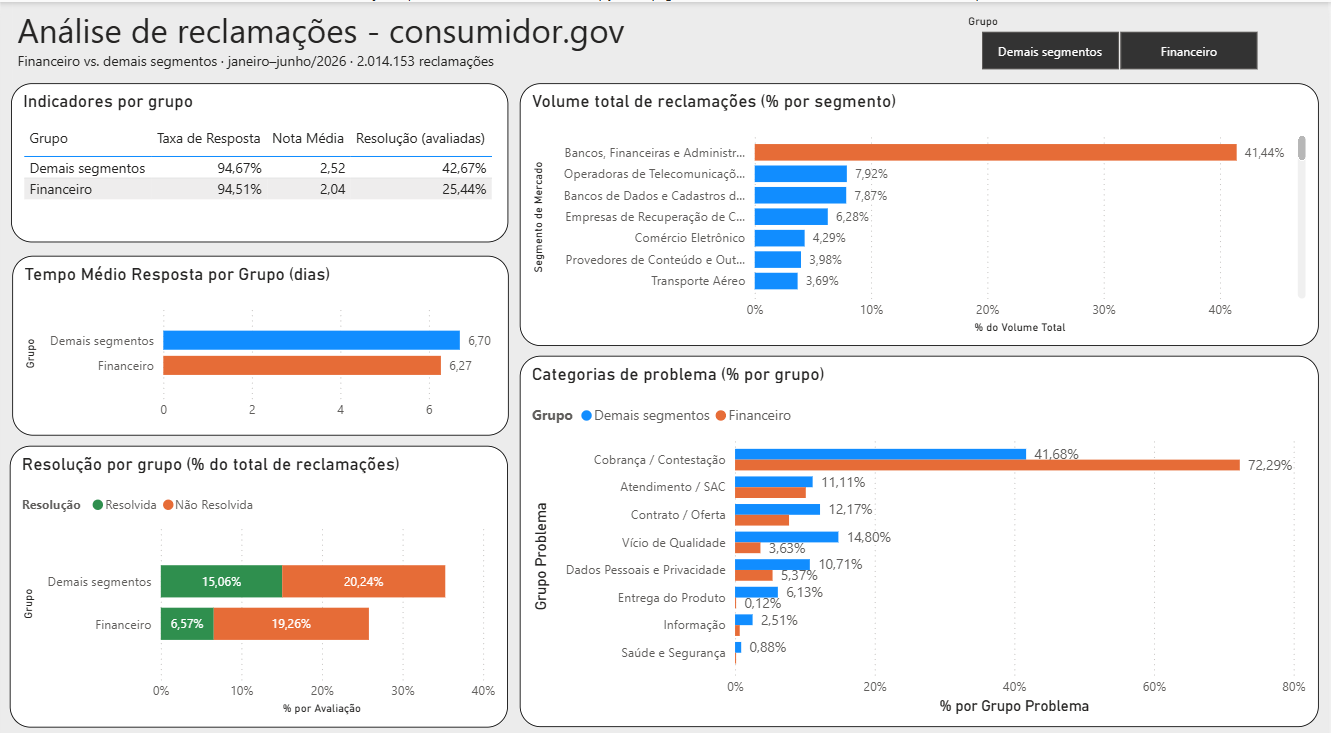
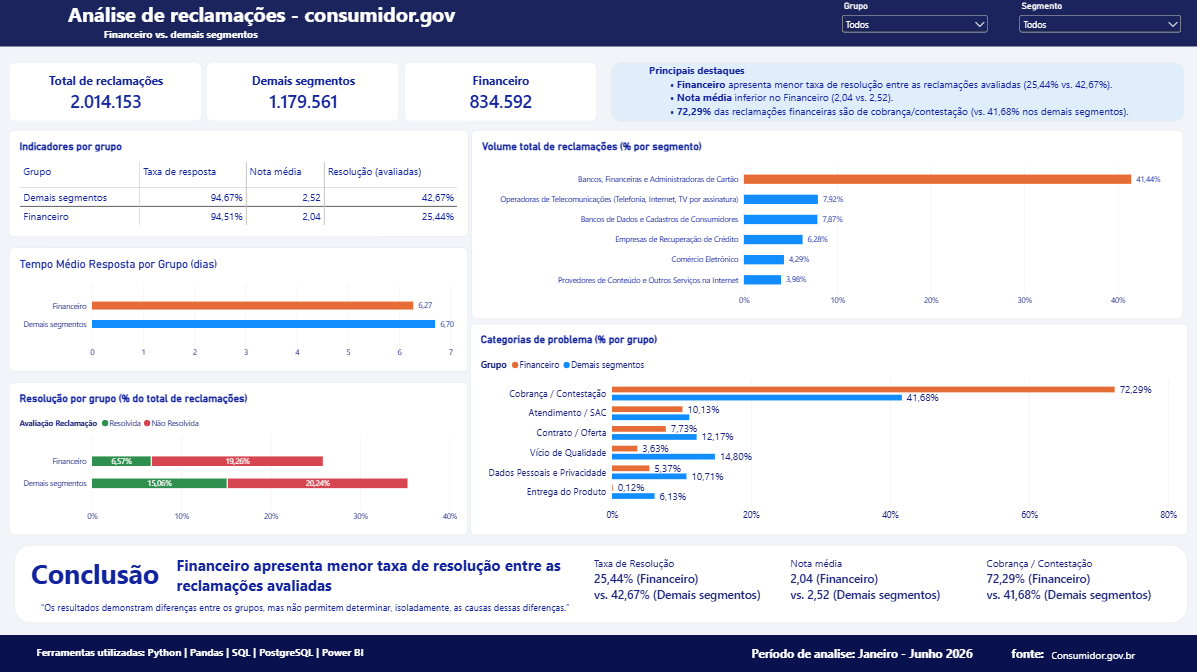
Atualiza README e adiciona dashboard

diff --git a/README.md b/README.md
@@ -177,7 +177,7 @@ O financeiro tem menos reclamações avaliadas e, entre as avaliadas, resolve pr
 
 O segmento financeiro concentra **41,44% do volume total**, mas seu **tempo e taxa de resposta são semelhantes aos dos demais segmentos** (o tempo é até um pouco menor). A diferença aparece depois da resposta: menor efetividade na resolução (25,44% vs. 42,67%) e pior percepção do consumidor (nota 2,04 vs. 2,52).
 
-> **Principal insight:** o segmento financeiro responde em ritmo e proporção semelhantes aos demais segmentos (e até um pouco mais rápido), mas apresenta menor efetividade na resolução e pior percepção dos consumidores. O problema não está na velocidade de resposta, mas na qualidade da solução oferecida.
+> **Principal insight:** o segmento financeiro responde em ritmo e proporção semelhantes aos demais segmentos (e até um pouco mais rápido), mas apresenta menor efetividade na resolução e pior percepção dos consumidores. Os dados sugerem que a diferença aparece depois da resposta, e não na velocidade de atendimento.
 
 > **Limitação:** a nota e a resolução consideram apenas as reclamações avaliadas pelo consumidor (cerca de 31% da base: 25,8% no financeiro e 35,3% nos demais segmentos). Os resultados refletem a percepção de quem avaliou. Além disso, os "demais segmentos" reúnem 44 segmentos distintos, ponderados pelo volume de cada um, então a comparação é com a média deles e não com cada um individualmente.
 
